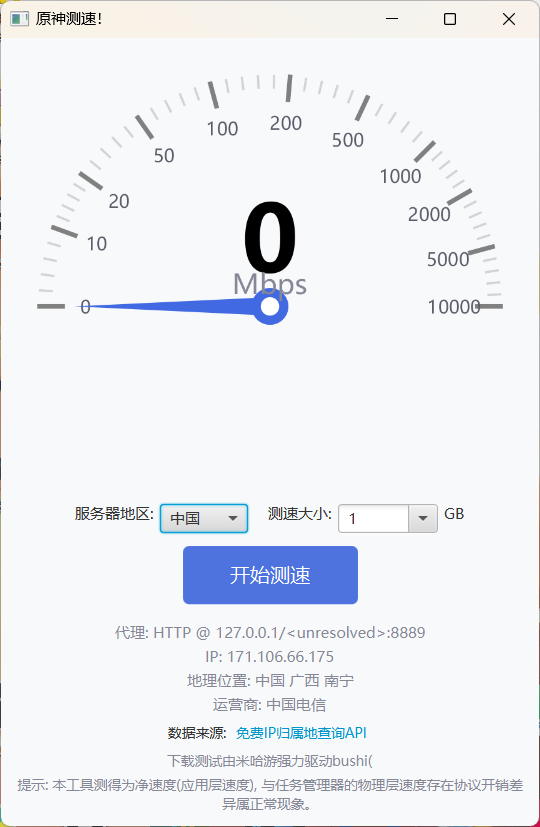
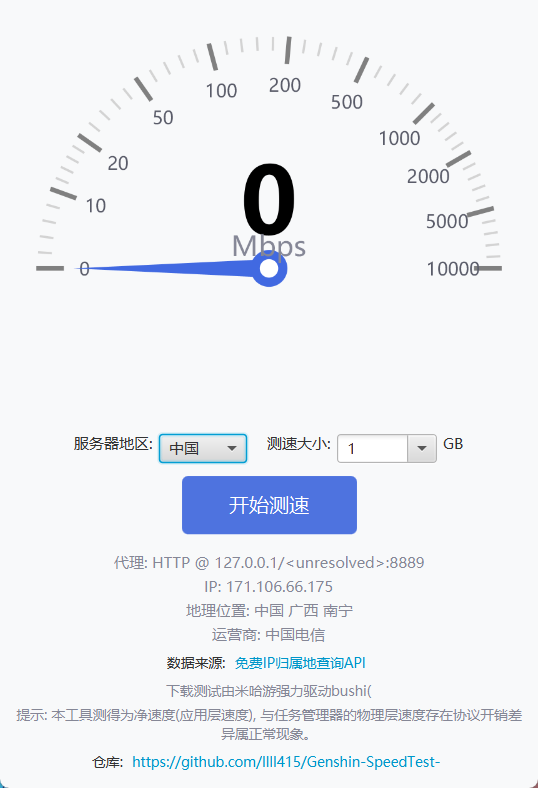
update

diff --git a/src/main/java/SpeedTestApp.java b/src/main/java/SpeedTestApp.java
@@ -82,10 +82,17 @@ public class SpeedTestApp extends Application {
         Label driverLabel = new Label("下载测试由米哈游强力驱动bushi(");
         driverLabel.setTextAlignment(TextAlignment.CENTER);
 
+        Hyperlink repoLink = new Hyperlink("https://github.com/llll415/Genshin-SpeedTest-");
+        repoLink.setOnAction(e -> getHostServices().showDocument("https://github.com/llll415/Genshin-SpeedTest-"));
+        HBox repoBox = new HBox(new Label("仓库: "), repoLink);
+        repoBox.setAlignment(Pos.CENTER);
+
+
         styleControls();
         disclaimerLabel.setStyle("-fx-font-size: 11px; -fx-text-fill: #858796;");
         apiBox.setStyle("-fx-font-size: 11px;");
         driverLabel.setStyle("-fx-font-size: 11px; -fx-text-fill: #858796;");
+        repoBox.setStyle("-fx-font-size: 11px;");
 
         VBox root = new VBox(8);
         root.setAlignment(Pos.CENTER);
@@ -95,7 +102,7 @@ public class SpeedTestApp extends Application {
         VBox controls = new VBox(10, configBox, startButton);
         controls.setAlignment(Pos.CENTER);
         
-        VBox footer = new VBox(4, proxyLabel, ipLabel, locationLabel, ispLabel, apiBox, driverLabel, disclaimerLabel);
+        VBox footer = new VBox(4, proxyLabel, ipLabel, locationLabel, ispLabel, apiBox, driverLabel, disclaimerLabel, repoBox);
         footer.setAlignment(Pos.CENTER);
         footer.setPadding(new Insets(8, 0, 0, 0));
 
